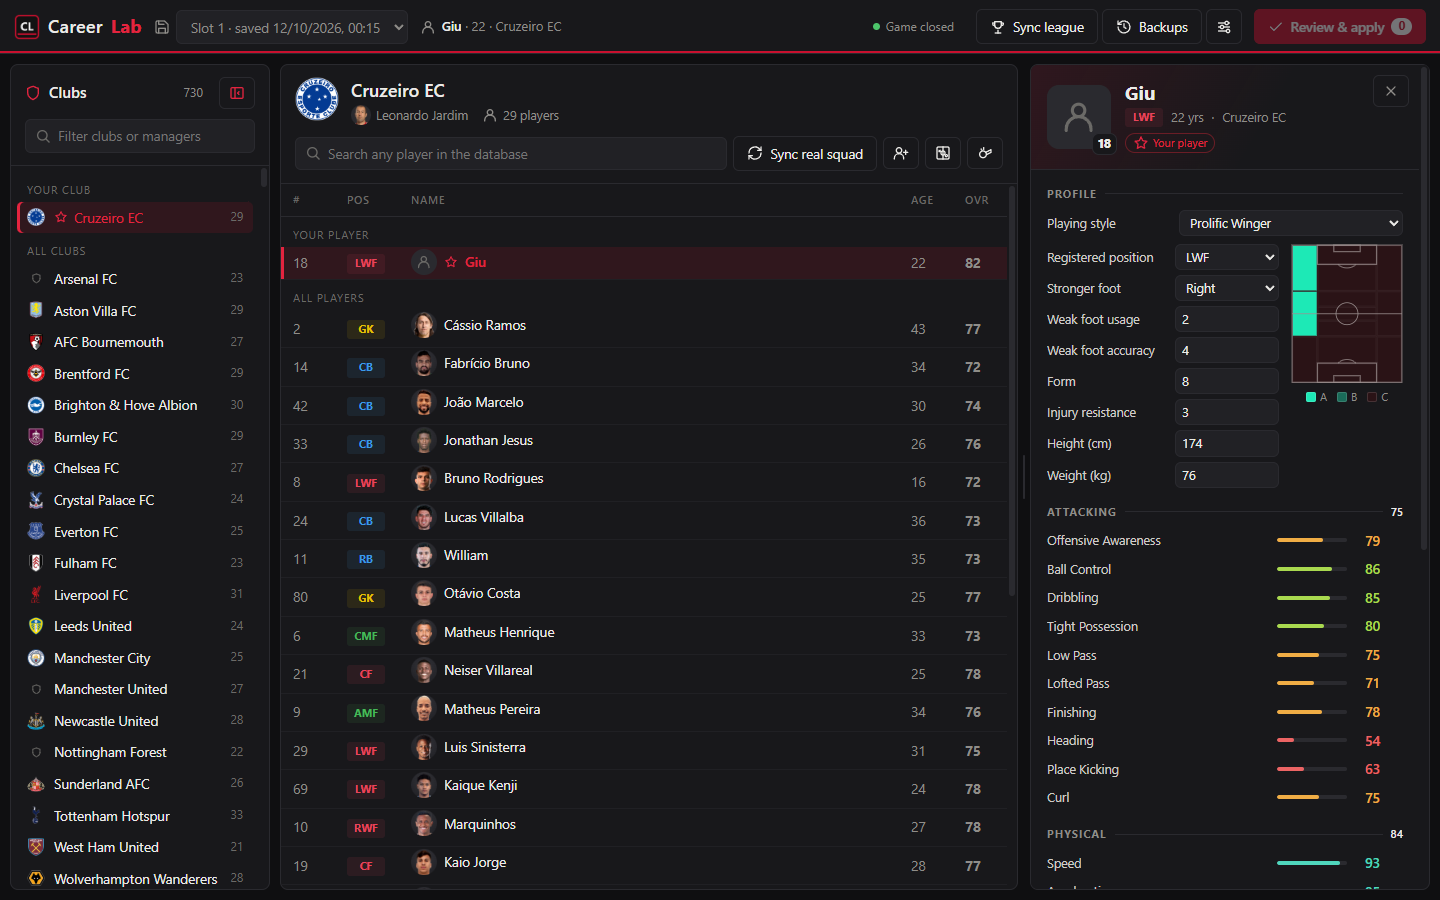
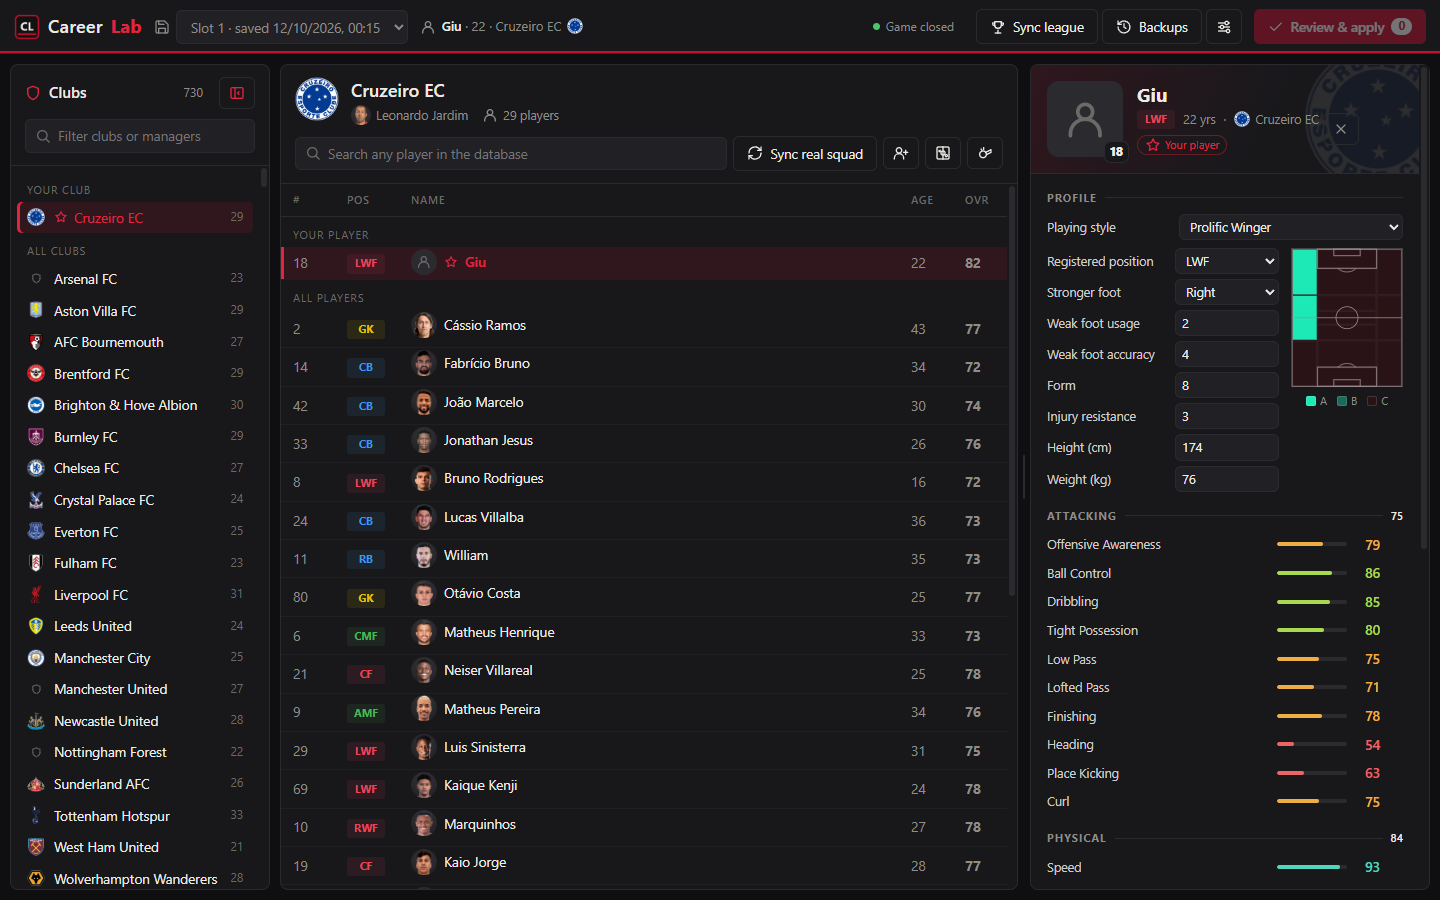
UI review with game images: player header portrait + crest watermark, crests in career chip, search, pickers and league sync; portraits in club sync and search; README screenshots refreshed

diff --git a/app/renderer/app.js b/app/renderer/app.js
@@ -108,6 +108,7 @@ function gameImg(kind, id, cls = "") {
   img.onerror = () => img.replaceWith(fallback());
   return img;
 }
+const teamOf = (block) => state.clubs.find((c) => c.block === block)?.teamId;
 function valClass(v) { return v >= 90 ? "v-hi" : v >= 80 ? "v-mid" : v >= 70 ? "v-lo" : "v-bad"; }
 function el(tag, props = {}, ...kids) {
   const e = document.createElement(tag);
@@ -151,6 +152,7 @@ async function openSave(path) {
       info.title = `${me.name} · ${me.age} · ${me.club || ""}`;
     }
     state.clubs = await call("clubs");
+    if (me && teamOf(me.block)) $("#career-info .ci-text")?.append(" ", gameImg("flag", teamOf(me.block), "crest-xs"));
     renderClubs();
     updateStaged();
     $("#btn-league").disabled = false;
@@ -321,20 +323,30 @@ function renderPlayer() {
   box.className = "detail-card";
   box.innerHTML = "";
   const inSquad = state.squad?.players.find((x) => x.pid === p.pid);
-  const where = namedBlocks(p.blocks).map((b) => b.name).join(", ") || t("detail.noSquad");
+  const named = namedBlocks(p.blocks);
+  const where = named.length
+    ? el("span", { className: "p-club" }, gameImg("flag", teamOf(named[0].block), "crest-xs"), named.map((b) => b.name).join(", "))
+    : t("detail.noSquad");
+  const clubTeam = named.length ? teamOf(named[0].block) : null;
 
   // header card
   const tags = el("div", { className: "p-tags" });
   if (p.kind === "created") tags.append(el("span", { className: "tag me" }, icon("star"), t("detail.yourPlayer")));
   if (inSquad?.captain) tags.append(el("span", { className: "tag cap", textContent: t("captain") }));
-  box.append(el("div", { className: "p-head" },
+  const head = el("div", { className: "p-head" },
     el("div", { className: "p-face" }, gameImg("player", p.pid, "face-lg"),
       el("span", { className: "p-shirt-badge", textContent: inSquad?.shirt ?? "–", title: t("detail.shirtNumber") })),
     el("div", {}, el("h2", { textContent: p.name }),
       el("div", { className: "p-sub" }, badge(p.position), t("detail.years", { n: p.age ?? "?" }), el("span", { textContent: "·" }), where),
       tags.childNodes.length ? tags : ""),
     (() => { const x = el("button", { className: "ghost icon-only small p-close", title: t("detail.close") }, icon("x"));
-      x.onclick = closePlayer; return x; })()));
+      x.onclick = closePlayer; return x; })());
+  if (clubTeam) {
+    const mark = el("img", { className: "p-watermark", src: `climg://flag/${clubTeam}`, alt: "" });
+    mark.onerror = () => mark.remove();
+    head.prepend(mark);
+  }
+  box.append(head);
 
   const prof = profileSection(p);
   if (prof) box.append(prof);
@@ -754,9 +766,9 @@ function openPicker(title, items, render, onPick, option) {
     const q = filter.value.trim().toLowerCase();
     list.innerHTML = "";
     for (const it of items) {
-      const [main, side] = render(it);
+      const [main, side, image] = render(it);
       if (q && !(main + " " + side).toLowerCase().includes(q)) continue;
-      const li = el("li", {}, el("span", { textContent: main }), el("span", { className: "muted", textContent: side }));
+      const li = el("li", {}, el("span", { className: "pname" }, image ? image() : "", main), el("span", { className: "muted", textContent: side }));
       li.onclick = () => { $("#dlg-pick").close(); onPick(it, $("#pick-check").checked); };
       list.append(li);
     }
@@ -767,7 +779,7 @@ function openPicker(title, items, render, onPick, option) {
   filter.focus();
 }
 function pickClub(title, onPick) {
-  openPicker(title, state.clubs.filter((c) => c.block !== state.block), (c) => [c.name, t("pick.players", { n: c.size })], onPick);
+  openPicker(title, state.clubs.filter((c) => c.block !== state.block), (c) => [c.name, t("pick.players", { n: c.size }), () => gameImg("flag", c.teamId, "crest-sm")], onPick);
 }
 function pickSkill(p) {
   const missing = Object.entries(skillNames()).filter(([k]) => !p.skills.includes(k)
@@ -814,14 +826,14 @@ async function loadFree() {
 function pickTactics() {
   const here = state.squad;
   openPicker(t("pick.tactics", { club: here.name }), state.clubs.filter((c) => c.block !== state.block && c.manager),
-    (c) => [c.name, c.manager],
+    (c) => [c.name, c.manager, () => gameImg("flag", c.teamId, "crest-sm")],
     (c) => stage({ op: "tactics_copy", block: here.block, from: c.block,
       label: t("lab.tactics", { club: here.name, from: c.name, manager: c.manager }) }));
 }
 function pickManager() {
   const here = state.squad;
   openPicker(t("pick.manager", { club: here.name }), state.clubs.filter((c) => c.block !== state.block && c.manager),
-    (c) => [c.manager, c.name],
+    (c) => [c.manager, c.name, () => gameImg("flag", c.teamId, "crest-sm")],
     (c, withTactics) => withTactics
       ? stage({ op: "manager_swap", a: here.block, b: c.block, label: t("lab.managerSwap", { a: c.manager, here: here.name, b: here.manager.name, there: c.name }) })
       : guarded(async () => {
@@ -847,8 +859,9 @@ function onSearch() {
     if (!rows.length) box.append(el("div", { textContent: t("search.none") }));
     for (const r of rows) {
       const where = r.blocks.length ? (namedBlocks(r.blocks).map((b) => b.name).join(", ") || r.blocks[0].name) : r.hasRecord ? t("search.free") : t("search.notInCareer");
-      const row = el("div", {}, el("span", { textContent: r.name }),
-        el("span", { className: "where" }, icon(r.hasRecord ? (r.blocks.length ? "shield" : "user") : "user-plus"), where));
+      const row = el("div", {}, el("span", { className: "pname" }, gameImg("player", r.pid, "face-xs"), r.name),
+        el("span", { className: "where" }, r.blocks.length ? gameImg("flag", teamOf(r.blocks[0].block), "crest-xs")
+          : icon(r.hasRecord ? "user" : "user-plus"), where));
       if (!r.hasRecord) row.onclick = () => {
         box.classList.add("hidden");
         if (state.block == null) return;
@@ -914,6 +927,8 @@ async function openSync(refresh = false, source = syncSource) {
       const cb = el("input", { type: "checkbox", checked });
       it._cb = cb;
       const [main, side] = render(it);
+      main.prepend(gameImg("player", it.careerPid || it.pid, "face-xs"));
+      main.classList.add("pname");
       g.append(el("div", { className: "sync-row" }, cb, it.position ? badge(it.position) : el("span"), main, side));
     }
     body.append(g);
@@ -1022,7 +1037,8 @@ function renderLeague() {
     if (!ops.length) counts.append(el("span", { className: "tag ok" }, icon("check"), t("league.upToDate")));
     body.append(el("details", { className: "league-club" + (cl._on ? "" : " off") },
       el("summary", {}, cb,
-        el("span", {}, el("b", { textContent: cl.name }), el("span", { className: "muted", textContent: "  " + t("league.match", { n: cl.keep }) })),
+        el("span", { className: "pname" }, gameImg("flag", cl.teamId, "crest-sm"), el("b", { textContent: cl.name }),
+          el("span", { className: "muted", textContent: t("league.match", { n: cl.keep }) })),
         counts),
       el("div", { className: "ops" }, ...ops.map((o) => el("div", { className: "k-" + o.kind, textContent: o.label })),
         ...(cl.kept?.length ? [el("div", { className: "muted", textContent: t("league.kept", { n: leaguePlan.minSquad, names: cl.kept.join(", ") }) })] : []))));

diff --git a/app/renderer/styles.css b/app/renderer/styles.css
@@ -430,3 +430,20 @@ body.clubs-collapsed .clubs .panel-head h2 { align-items: center; }
 .club-list li { gap: 9px; }
 .club-list li .name { display: inline-flex; align-items: center; gap: 6px; }
 .free-row .fname { display: inline-flex; align-items: center; gap: 8px; }
+
+/* images, second pass */
+.crest-xs { width: 16px; height: 16px; vertical-align: -3px; }
+.crest-xs.ph { background: transparent; }
+.face-xs { width: 22px; height: 22px; border-radius: 50%; object-fit: cover; object-position: top;
+  background: radial-gradient(circle at 50% 35%, #34343a, #1d1d21); }
+.face-lg { width: 76px; height: 76px; }
+.p-head { overflow: hidden; }
+.p-head > :not(.p-watermark) { position: relative; z-index: 1; }
+.p-watermark { position: absolute; right: -18px; top: 50%; width: 150px; height: 150px; margin-top: -75px;
+  opacity: .09; filter: grayscale(.2); pointer-events: none; z-index: 0; }
+.p-club { display: inline-flex; align-items: center; gap: 5px; }
+.career-info .ci-text .crest-xs { margin-left: 2px; }
+.sync-row .pname, .pick-list .pname, .search-results .pname, .league-club .pname { display: inline-flex; align-items: center; gap: 8px; }
+.league-club .pname .muted { font-size: 12px; }
+.search-results .where .crest-xs { width: 15px; height: 15px; }
+.p-watermark { right: -34px; }

diff --git a/CHANGELOG.md b/CHANGELOG.md
@@ -4,7 +4,8 @@
 
 - **Game images**: player portraits, club crests and manager photos, read from your own FL26
   install (nothing is downloaded or shipped) — in the club list, squad table, squad header and
-  player panel.
+  player panel; also in search results, the club and league sync dialogs, the club pickers and
+  the career chip; the player panel header shows a large portrait over a faded club crest.
 - Position map drawn like FL26's player card: the game's pitch zones and markings, A in solid
   teal, B in light teal; names on hover, click cycles C/B/A.
 - The club list can be collapsed to a slim strip (icon in its header; click the strip to bring
